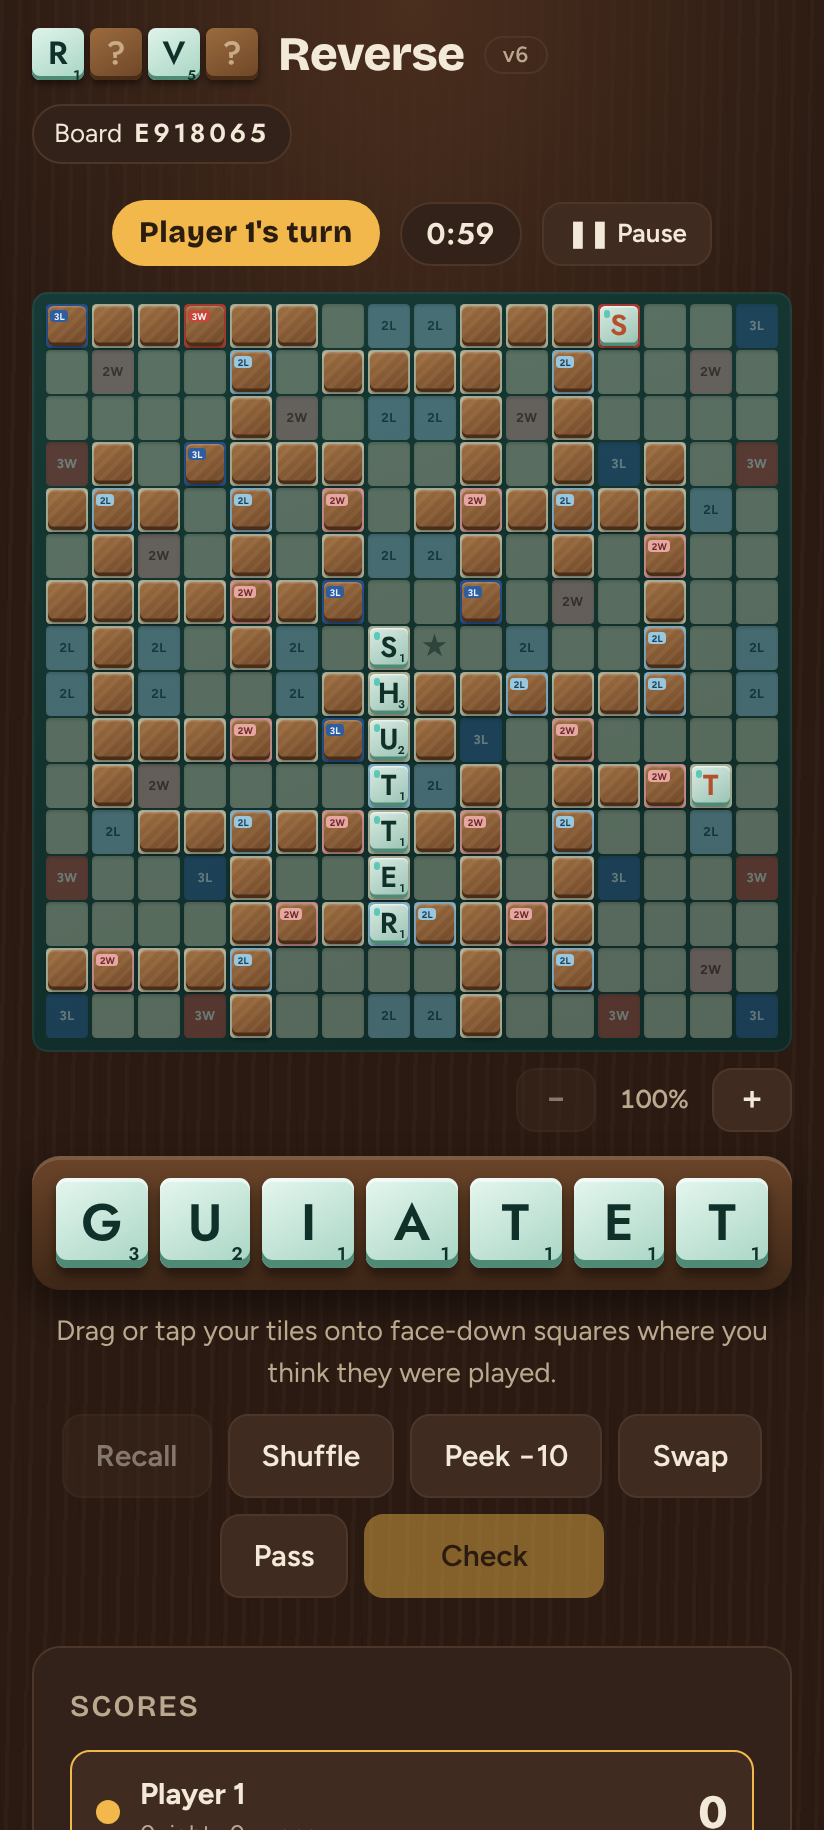
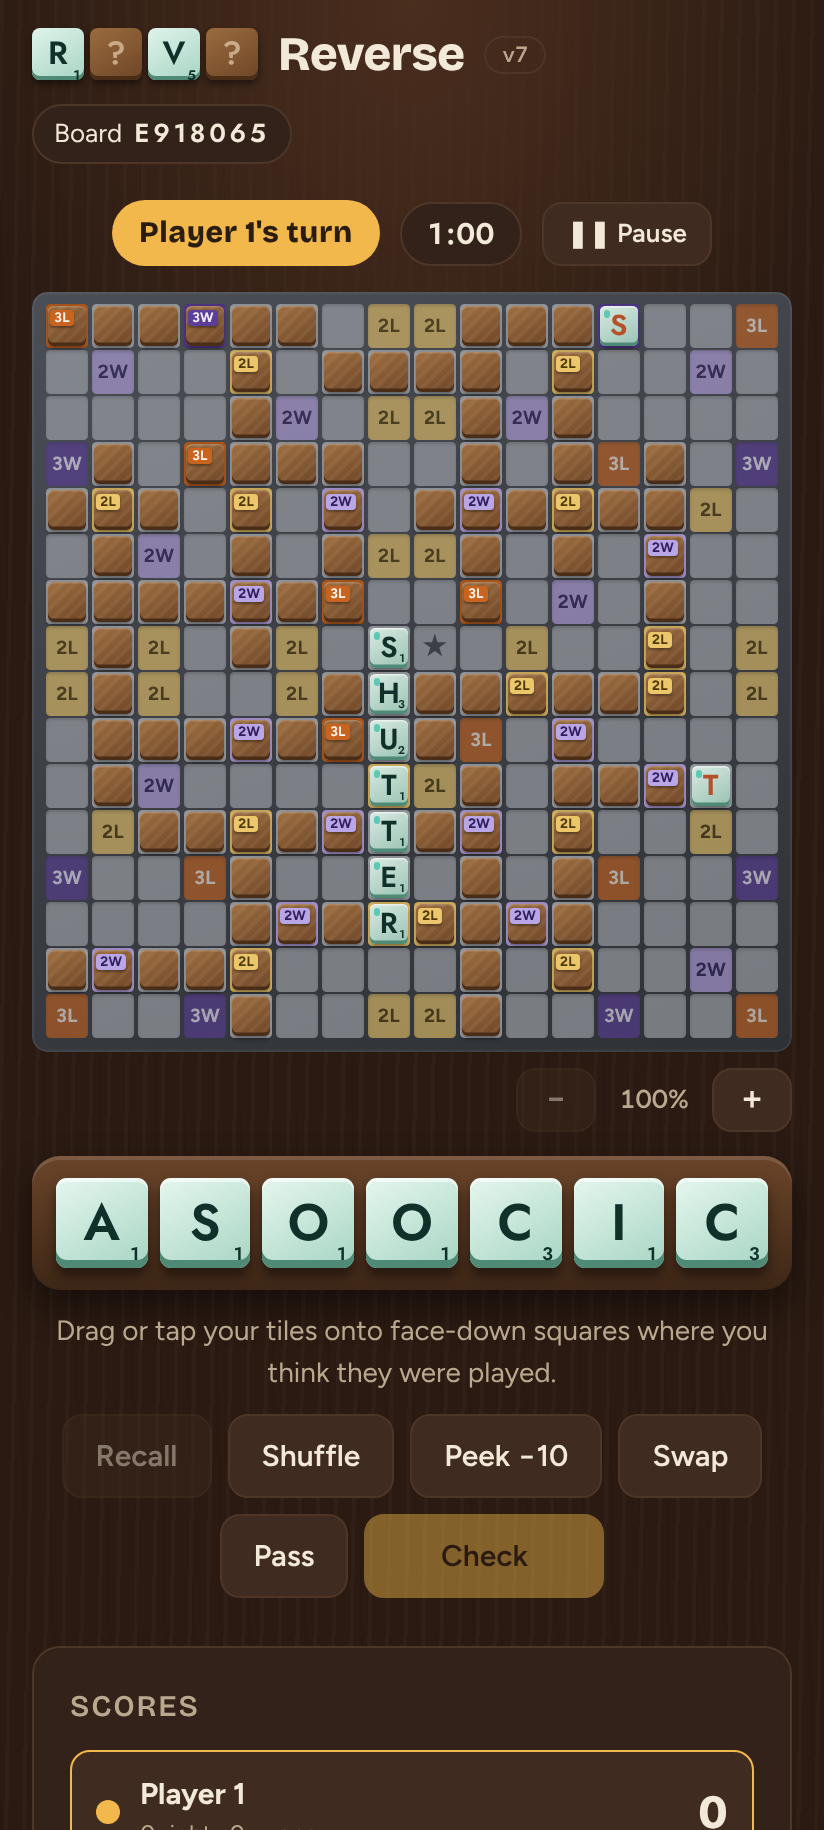
Grey board with purple and orange bonus squares and bigger labels (v7)
- Board frame and squares are slate grey instead of green and sage.
- Word squares are purple (3W deep purple, 2W lilac); letter squares are
  orange/gold (3L burnt orange, 2L gold), replacing red/pink/blue.
- 2L/3L/2W/3W labels are larger and bolder on empty squares and on the
  badges on face-down tiles; empty squares are less faded so labels read.
- Store screenshots refreshed.

Claude-Session: https://claude.ai/code/session_01ViRarTws4VbgujxtyNyeFQ

diff --git a/index.html b/index.html
@@ -14,9 +14,10 @@
 :root {
   --table: #2a1a12; --table-glow: #4a2e1e; --grain: rgba(255,240,220,.025); --grain-dark: rgba(0,0,0,.06);
   --ink: #f3e9d8; --muted: #bba98f; --line: #4d3628; --panel: #33221a; --panel-2: #3f2b20;
-  --frame: #163a35; --frame-edge: #0f2a26; --cell: #c9ccb0; --cell-ink: #5d6450;
-  --tw: #c4473a; --dw: #e6a6a2; --tl: #2f5d9e; --dl: #98c7de;
-  --tw-ink: #fff3ee; --dw-ink: #6a2b28; --tl-ink: #eaf1ff; --dl-ink: #1d4257;
+  /* Slate-grey board. Bonus squares: purples for word squares, oranges/golds for letter squares. */
+  --frame: #4a4e55; --frame-edge: #2e3136; --cell: #a9adb3; --cell-ink: #3c4046;
+  --tw: #5b3d9a; --dw: #b9a6e6; --tl: #c8641f; --dl: #ecc66a;
+  --tw-ink: #f4eeff; --dw-ink: #2f1d5c; --tl-ink: #fff3e8; --dl-ink: #4f3a07;
   --tile-1: #dff3ea; --tile-2: #a7d5c3; --tile-ink: #10302a; --tile-edge: #4f8a76; --blank-ink: #b4502a; /* sea-glass tiles, not the classic beige */
   --back-1: #9a6b3e; --back-2: #6e4627; --back-edge: #4a2d17; --back-ink: rgba(255,236,205,.55);
   --ledge-1: #6a4429; --ledge-2: #3e2717;
@@ -128,12 +129,12 @@ h2 { font-size: 15px; font-weight: 600; letter-spacing: .06em; text-transform: u
 .board { display: grid; grid-template-columns: repeat(16, minmax(0, 1fr)); gap: .4cqw; padding: 1.8cqw; border-radius: 2cqw;
   background: linear-gradient(160deg, var(--frame), var(--frame-edge)); box-shadow: 0 2.2cqw 4cqw var(--shadow), inset 0 0 0 .3cqw rgba(255,255,255,.06); touch-action: manipulation; user-select: none; -webkit-user-select: none; }
 .cell { aspect-ratio: 1; border-radius: .6cqw; background: var(--cell); position: relative; display: grid; place-items: center;
-  font: 700 1.7cqw/1 var(--f-body); letter-spacing: .04em; color: var(--cell-ink); box-shadow: inset 0 .25cqw .4cqw rgba(0,0,0,.18); }
+  font: 800 2.5cqw/1 var(--f-body); letter-spacing: .02em; color: var(--cell-ink); box-shadow: inset 0 .25cqw .4cqw rgba(0,0,0,.18); }
 .cell.TW { background: var(--tw); color: var(--tw-ink); }
 .cell.DW { background: var(--dw); color: var(--dw-ink); }
 .cell.TL { background: var(--tl); color: var(--tl-ink); }
 .cell.DL { background: var(--dl); color: var(--dl-ink); }
-.cell.void { opacity: .38; }
+.cell.void { opacity: .6; }
 .cell.star { font-size: 3.6cqw; }
 .cell.hover { outline: .4cqw solid var(--accent); outline-offset: -.2cqw; }
 .cell.target { cursor: pointer; }
@@ -150,7 +151,7 @@ h2 { font-size: 15px; font-weight: 600; letter-spacing: .06em; text-transform: u
 .tile.clue::after { content: ""; position: absolute; left: 10%; top: 10%; width: 1cqw; height: 1cqw; border-radius: 50%; background: var(--seat-1); }
 .tile.down { background: repeating-linear-gradient(135deg, rgba(255,255,255,.05) 0 .5cqw, transparent .5cqw 1.2cqw), linear-gradient(150deg, var(--back-1) 10%, var(--back-2));
   box-shadow: inset 0 -.45cqw 0 var(--back-edge), inset 0 .2cqw 0 rgba(255,255,255,.18), 0 .35cqw .55cqw var(--shadow); color: var(--back-ink); }
-.tile.down .pm { position: absolute; left: 8%; top: 8%; padding: .2cqw .45cqw; border-radius: .5cqw; font: 700 1.25cqw/1 var(--f-body); letter-spacing: .02em; }
+.tile.down .pm { position: absolute; left: 8%; top: 8%; padding: .25cqw .5cqw; border-radius: .5cqw; font: 800 1.8cqw/1 var(--f-body); letter-spacing: .02em; box-shadow: 0 .15cqw .3cqw rgba(0,0,0,.35); }
 .pm.TW { background: var(--tw); color: var(--tw-ink); } .pm.DW { background: var(--dw); color: var(--dw-ink); }
 .pm.TL { background: var(--tl); color: var(--tl-ink); } .pm.DL { background: var(--dl); color: var(--dl-ink); }
 .tile.down .nots { position: absolute; left: 6%; right: 6%; bottom: 6%; font: 600 1.35cqw/1.1 var(--f-tile); color: #ffd2c8; text-decoration: line-through; text-align: center; overflow-wrap: anywhere; }
@@ -420,7 +421,7 @@ h2 { font-size: 15px; font-weight: 600; letter-spacing: .06em; text-transform: u
 <script src="gen.js"></script>
 <script>
 // Bump APP_VERSION and version.txt together on every release.
-const APP_VERSION = '6';
+const APP_VERSION = '7';
 const $ = s => document.querySelector(s);
 const esc = s => String(s ?? '').replace(/[&<>"']/g, c => ({'&':'&amp;','<':'&lt;','>':'&gt;','"':'&quot;',"'":'&#39;'}[c]));
 $('#verTag').textContent = $('#footVer').textContent = 'v' + APP_VERSION;
